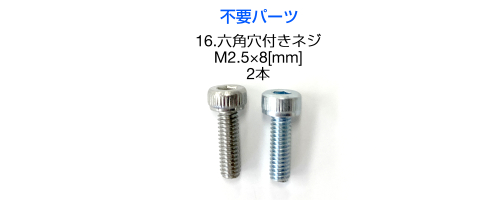
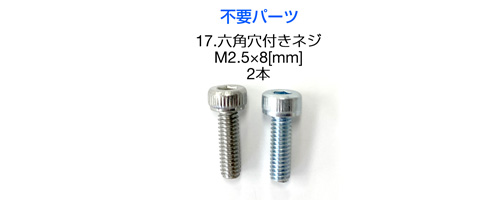
同梱ネジに関する組み立てマニュアルの更新 (#24)
* 新規の同梱品ネジを追加

* 新規ネジの所属カテゴリを修正

* 文章の挿入位置を修正

* 英語版マニュアルに新規ネジを追加し、タップネジの表現を"tapping"に統一

* 不要な記号を削除

* 付属タップネジの説明を太文字で強調するように変更

* typoの修正

diff --git a/docs/assembly.md b/docs/assembly.md
@@ -6,7 +6,7 @@ we will explain the assembly procedure for [Stack-chan RT ver.](https://rt-net.j
 
 Items used for assembly.
 
-**[Stack-chan RT ver. Assembly kit](https://www.rt-shop.jp/index.php?main_page=product_info&products_id=4188)』 comes with two `M2.5x8[mm]` screws. These screws are not used in any steps of assembly. Please be careful not to use it incorrectly.**
+**[Stack-chan RT ver. Assembly kit](https://www.rt-shop.jp/index.php?main_page=product_info&products_id=4188) comes with two `M2.5x8[mm]` screws. These screws are not used in any steps of assembly. Please be careful not to use it incorrectly.**
 
 <img src="images/assembly/parts_1_en.jpg" width="50%">
 <img src="images/assembly/parts_2_en.jpg" width="50%">
@@ -14,6 +14,7 @@ Items used for assembly.
 <img src="images/assembly/parts_4_en.jpg" width="50%">
 <img src="images/assembly/parts_5_en.jpg" width="50%">
 <img src="images/assembly/parts_6_en.jpg" width="50%">
+<img src="images/assembly/parts6-2_en.jpg" width="50%">
 <img src="images/assembly/parts_7_en.jpg" width="50%">
 
 ### Used parts
@@ -30,16 +31,17 @@ Items used for assembly.
 10. TTL cables 2pc
 11. Battery pack
 12. Servo horn
-13. Hex socket head tapped screws M2x5[mm] 4pc
+13. Hex socket head tapping screws M2x5[mm] 4pc
 
 ### Optional parts
 
-14. Hex scocket head tapped screws M3x12[mm] 2pc
-15. Hex soccket head tapped screws M3x14[mm] 2pc
+14. Hex socket head tapping screws M3x12[mm] 2pc
+15. Hex socket head tapping screws M3x14[mm] 2pc
+16. Pan head tapping screw M2.6x8[mm] 1pc
 
 ### Not used parts
 
-16. Hex socket head tapped screws M2.5x8[mm] 2pc
+17. Hex socket head tapping screws M2.5x8[mm] 2pc
 
 
 ## List of required tools
@@ -61,7 +63,7 @@ Assembly should be done in the following order.
 
 Rotate the circular servo horn with your finger. The **two notches on** the circular servo horn should be aligned with the notches on the servo motor 1 body.
 
-**Notice: The bule line is an explicit illustration of the notch position and is therefore not drawn on the actual servo motor.**
+**Notice: The blue line is an explicit illustration of the notch position and is therefore not drawn on the actual servo motor.**
 
 <img src="images/assembly/disk_horn_rotation_1_en.png" width="30%">
 
@@ -75,11 +77,11 @@ Rotate the circular servo horn with your finger so that the angle of **one notch
 
 #### Removing screws and circular servo horn
 
-Remove the tap screw (M2.6x6[mm]) attached to Servo motor1 and Servo motor2.
+Remove the tapping screw (M2.6x6[mm]) attached to Servo motor1 and Servo motor2.
 
 <img src="images/assembly/disassembling_screw.jpg" width="50%">
 
-Place the removed screws in a safe place as they will be used later. The parts on the left side of the image (parts marked 'not used') will not be required to build Statck-chan RT ver.
+Place the removed screws in a safe place as they will be used later. **The parts on the left side of the image (parts marked 'not used') will not be required to build Stack-chan RT ver.**
 
 <img src="images/assembly/disassembling_servo.jpg" width="50%">
 
@@ -87,11 +89,11 @@ Place the removed screws in a safe place as they will be used later. The parts o
 
 Connect servo motor1 and servo motor2 as shown in the picture.
 
-Servo motor1 and servo motor2 have the pre-assignatikon ID1 and ID2 respectively and are used as individual identification in the software when communicating with the M5Stack. As a marker, a blue sticker is attached to ID 1 and a green stcker to ID2. Make sure to install them correctly.
+Servo motor1 and servo motor2 have the pre-assignment ID1 and ID2 respectively and are used as individual identification in the software when communicating with the M5Stack. As a marker, a blue sticker is attached to ID 1 and a green sticker to ID2. Make sure to install them correctly.
 
 <img src="images/assembly/servo_wired.jpg" width="50%">
 
-Fix the part that will become the body with servo brackets for  servo motor1 and servo motor2. Be careful not to pinch the cables, sandwich them between the servo bracket(front) and the servo bracker(rear). At this point, make sure that the lable on the servo that say's 'DYNAMIXEL XL330-M288-T' faces in the direction of the arrow.
+Fix the part that will become the body with servo brackets for  servo motor1 and servo motor2. Be careful not to pinch the cables, sandwich them between the servo bracket(front) and the servo bracket(rear). At this point, make sure that the label on the servo that says 'DYNAMIXEL XL330-M288-T' faces in the direction of the arrow.
 
 <img src="images/assembly/born_purge_en.jpg" width="50%">
 
@@ -100,11 +102,11 @@ Fix the two servo motors between the servo brackets.
 <img src="images/assembly/born_base.jpg" width="50%">
 
 
-### Attacjing feet
+### Attaching feet
 
 Attach the stack-chan feet to the body.
 
-Align the protrusions of the servo motort1 with the notches in the joint of the foot(top) and press firmly to fix it in place. If the protrusions and notches are not aligned correctly, the protrusions may break when pushed in. Check carefully before pushing it in.
+Align the protrusions of the servo motor1 with the notches in the joint of the foot(top) and press firmly to fix it in place. If the protrusions and notches are not aligned correctly, the protrusions may break when pushed in. Check carefully before pushing it in.
 
 <p>
     <img src="images/assembly/servo_protrusion_focus.jpg" width="20%"> <img src="images/assembly/feet_cutout.jpg" width="30%">
@@ -112,7 +114,8 @@ Align the protrusions of the servo motort1 with the notches in the joint of the 
 
 <img src="images/assembly/servo_and_feet_protrusions.jpg" width="50%">
 
-Tighten the tapped screws (M2.6x6[mm]) and secure the servo motor.
+Tighten the tapping screw (M2.6x6[mm]) and secure the servo motor.
+If tightening the tapping screw does not firmly secure the servo motor, use the pan head tapping screw (M2.6x8[mm]) included with the product.
 
 <img src="images/assembly/tightening_feet_screw.jpg" width="50%">
 
@@ -138,7 +141,7 @@ Attach the servo motor2 and servo horn together with the part shaped as a gear. 
 
 <img src="images/assembly/servo_and_horn_protrusions.jpg" width="50%">
 
-Tighten the tap screws (M2.6x6[mm]) in the gear section jointed by aligning the protrussions.
+Tighten the tapping screw (M2.6x6[mm]) in the gear section jointed by aligning the protrussions.
 
 <img src="images/assembly/tightening_horn_screw.jpg" width="50%">
 
@@ -157,7 +160,7 @@ Once aligned,slide in the direction of the arrow.
 
 <img src="images/assembly/born_assembled.jpg" width="50%">
 
-### Exteror fitting
+### Exterior fitting
 
 Attach the shell, which serves as the exterior of Stack-chan.
 
@@ -169,7 +172,7 @@ Click by the prongs! Slide the unit until you feel a click.
 
 <img src="images/assembly/born_slide_shell.jpg" width="50%">
 
-When mounted and viewed from the reversed side, you should see as shown in the image below. The blue line outline the servo horn.
+When mounted and viewed from the reverse side, you should see as shown in the image below. The blue line outlines the servo horn.
 
 <img src="images/assembly/born_shell_assembled.jpg" width="50%">
 
@@ -181,9 +184,9 @@ Connect the TTL cable attached to the servo motor and the battery cable to the s
 
 <img src="images/assembly/cable_connecting.jpg" width="50%">
 
-Align the holes in the board and shell so that the blue and black connectors attached to the board are on top, as shown in the image. Tighten the four screws (hexagon sockets tap screws M2x5[mm]) to secure. As the slide switch protrudes from the board, align the screws by slanting them into the holes ub the side of the shell.
+Align the holes in the board and shell so that the blue and black connectors attached to the board are on top, as shown in the image. Tighten the four screws (hexagon sockets tap screws M2x5[mm]) to secure. As the slide switch protrudes from the board, align the screws by slanting them into the holes in the side of the shell.
 
-**Make sure that the screws don't touch the conductor(sliver parts). The battery terminals are connected and may short-cirduit.**
+**Make sure that the screws don't touch the conductor(silver parts). The battery terminals are connected and may short-circuit.**
 
 <p>
     <img src="images/assembly/board_shell_attaching.jpg" width="25%"> <img src="images/assembly/board_shell_assembling.jpg" width="25%">
@@ -204,7 +207,7 @@ Once successfully installed, the stack-chan assembly is complete.
 <img src="images/assembly/stack-chan_assembled.jpg" width="50%">
 
 
-### [Optiomal] Fixing M5Stack CoreS3
+### [Optional] Fixing M5Stack CoreS3
 
 If you want to secure the M5Stack CoreS3 firmly, use the four Allen screws supplied in the kit. Note that there are two different screw lengths.
 
@@ -214,6 +217,6 @@ Remove the battery pack from the servo bracket(rear) and disconnect the battery 
 
 <img src="images/assembly/assembling_back_screws.jpg" width="50%">
 
-**Always remove the battey before installing the hexagonal screws. Dropping the screws onto the board may cause a short circuit and damage the board.**
+**Always remove the battery before installing the hexagonal screws. Dropping the screws onto the board may cause a short circuit and damage the board.**
 
 **Always install the short hexagonal screws on the upper side and the long hexagonal screws on the lower side. If you make a mistake, the LCD may be damaged.**

diff --git a/docs/assembly_ja.md b/docs/assembly_ja.md
@@ -14,6 +14,7 @@
 <img src="images/assembly/parts_4.jpg" width="50%">
 <img src="images/assembly/parts_5.jpg" width="50%">
 <img src="images/assembly/parts_6.jpg" width="50%">
+<img src="images/assembly/parts_6-2.jpg" width="50%">
 <img src="images/assembly/parts_7.jpg" width="50%">
 
 ### 使用パーツ
@@ -36,10 +37,11 @@
 
 14. 六角穴付きネジ M3x12[mm] 2本
 15. 六角穴付きネジ M3x14[mm] 2本
+16. なべタップネジ M2.6x8[mm] 1本
 
 ### 不要パーツ
 
-16. 六角穴付きネジ M2.5x8[mm] 2本
+17. 六角穴付きネジ M2.5x8[mm] 2本
 
 
 ## 使用工具一覧
@@ -114,6 +116,7 @@
 <img src="images/assembly/servo_and_feet_protrusions.jpg" width="50%">
 
 サーボモータ用のタップネジ（M2.6x6[mm]）を締めて固定します。
+**サーボモータ用のタップネジを締めても固定がゆるい場合は、製品に同梱されている`なべタップネジ M2.6x8[mm]`を使用して締結してください。**
 
 <img src="images/assembly/tightening_feet_screw.jpg" width="50%">
 
